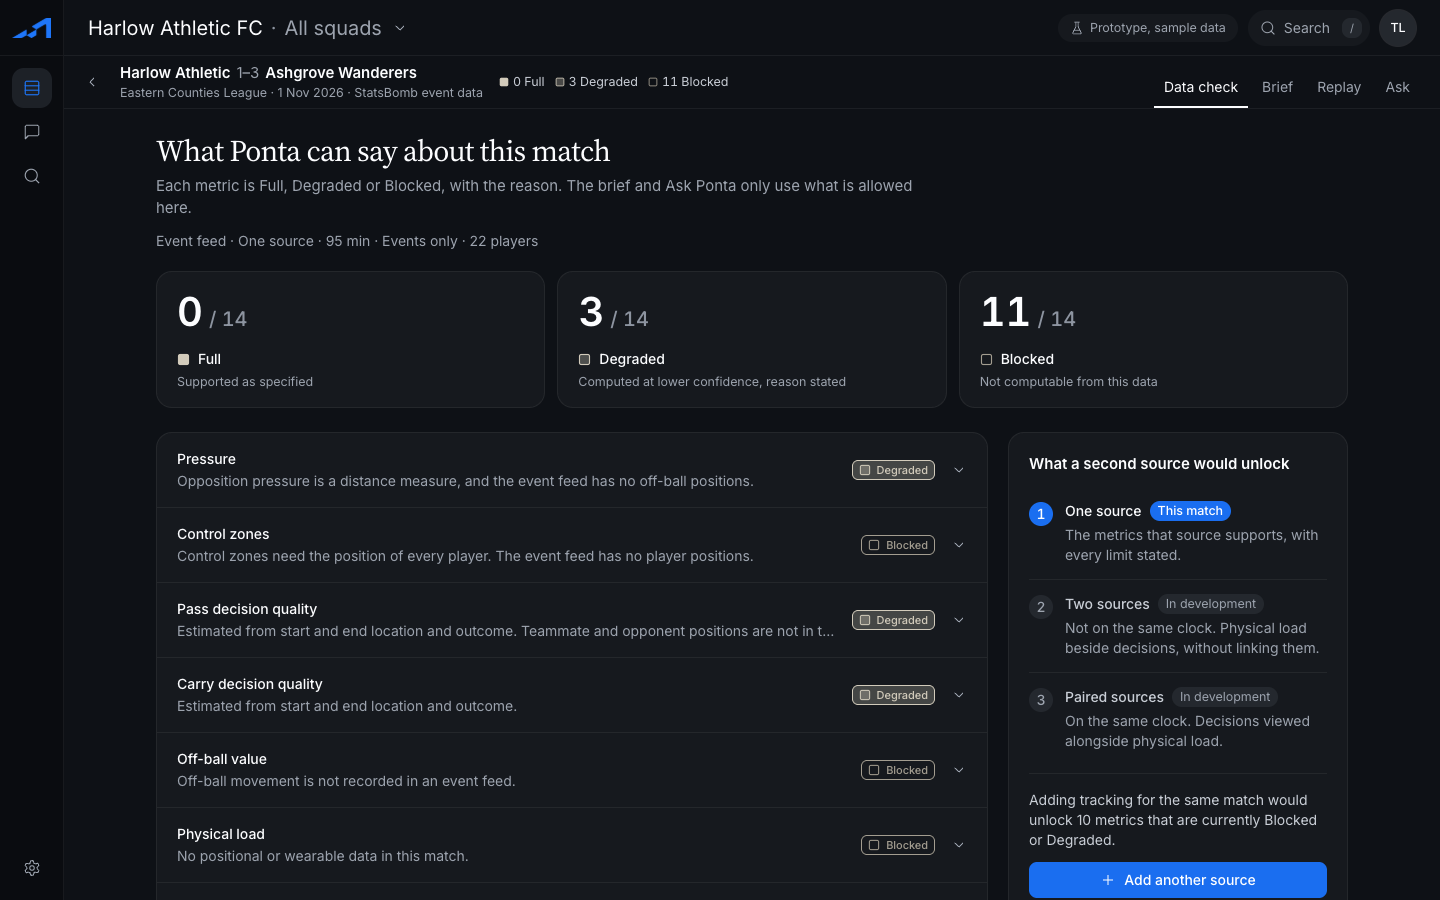
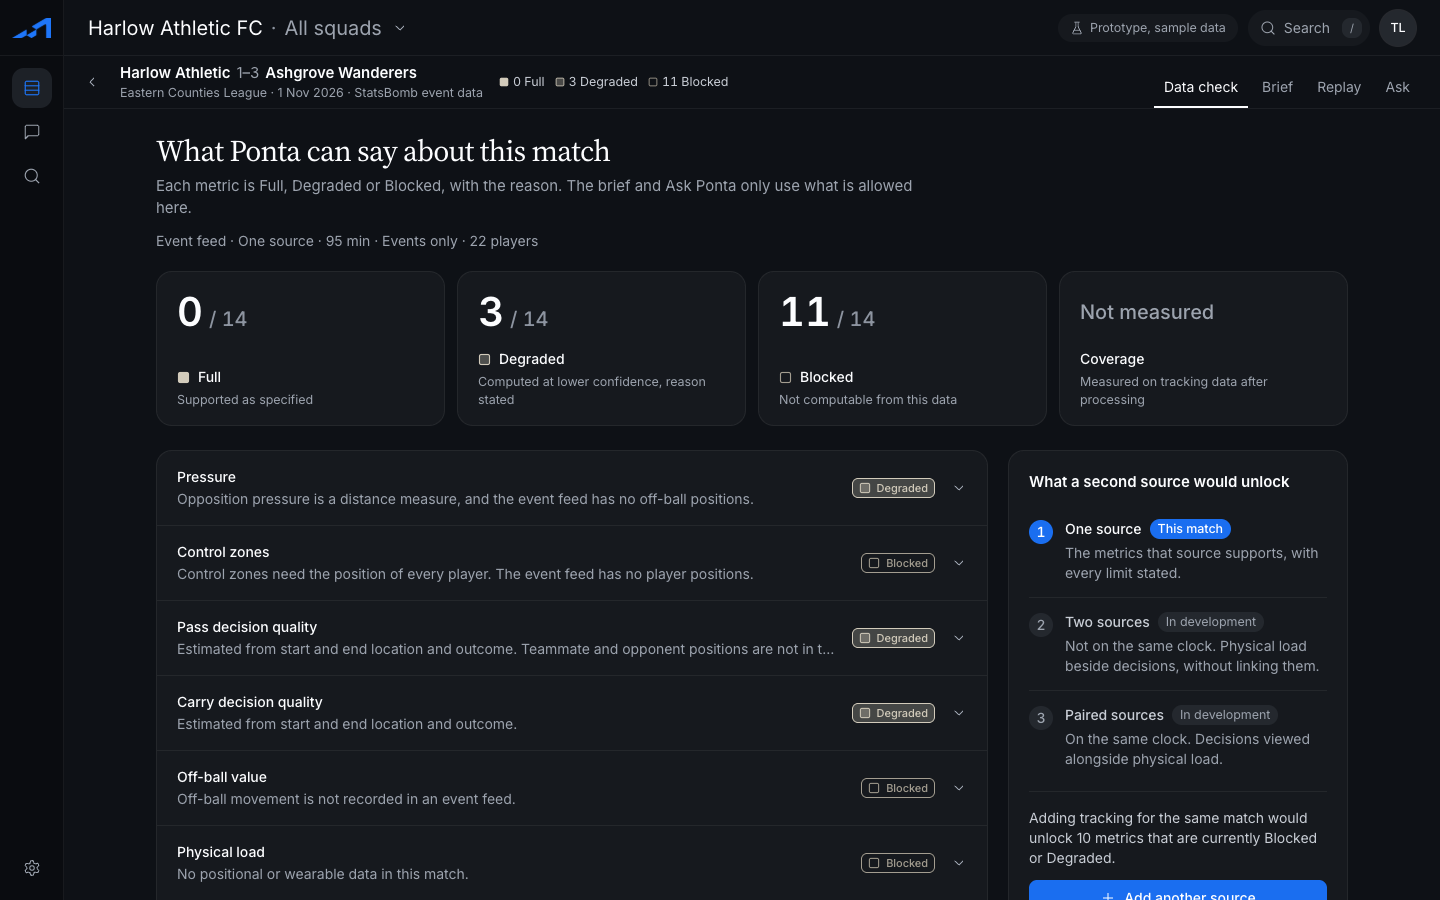
Data check: coverage (brief v2, 5.2)
Fourth tile with the share of passes and carries scored, a plain line
listing why the rest were not, and the same figure in the brief header
and print view. Mock figures per processed tracking match; m_0372 is the
low-coverage example. Pre-processing check leaves coverage out.

diff --git a/src/components/parity/ParityGate.tsx b/src/components/parity/ParityGate.tsx
@@ -4,9 +4,9 @@ import * as Collapsible from '@radix-ui/react-collapsible'
 import { ArrowRight, ChevronDown, Download, FlaskConical, Layers, Plus } from 'lucide-react'
 import { cn } from '@/lib/cn'
 import { t } from '@/i18n'
-import { FAMILIES, type Match, type MetricId, type ParityState } from '@/lib/types'
+import { FAMILIES, type Coverage, type Match, type MetricId, type ParityState } from '@/lib/types'
 import { familyState, parityFor, getMatchesSync } from '@/api'
-import { fmtDateTime } from '@/lib/format'
+import { fmtDateTime, fmtShare } from '@/lib/format'
 import { Button, buttonStyles } from '@/components/ui/button'
 import { InlineAlert } from '@/components/ui/feedback'
 import { ParityBadge, ParityIcon, Tag, TierBadge, TierGlyph } from '@/components/ui/badges'
@@ -31,6 +31,33 @@ function SummaryStat({ state, n, total }: { state: ParityState; n: number; total
         <p className="mt-1 text-xs text-fg-3">{t(`gate.stat_hint_${state}`)}</p>
       </div>
     </div>
+  )
+}
+
+/** The coverage tile: the scored share leads, in the same shape as the state tiles. */
+function CoverageStat({ coverage }: { coverage: Coverage | null }) {
+  return (
+    <div className="flex flex-col justify-between rounded-xl border border-hair bg-s1 px-5 pb-4 pt-5">
+      {coverage ? (
+        <p className="font-mono text-[40px] font-semibold leading-none tracking-tight tabular-nums text-fg-1">{fmtShare(coverage.scored, coverage.decisions)}</p>
+      ) : (
+        <p className="text-lg font-medium leading-[40px] text-fg-3">{t('cov.not_measured')}</p>
+      )}
+      <div className="mt-4">
+        <p className="text-sm font-medium text-fg-1">{t('cov.title')}</p>
+        <p className="mt-1 text-xs text-fg-3">{coverage ? t('cov.hint', { scored: coverage.scored.toLocaleString('en-GB'), total: coverage.decisions.toLocaleString('en-GB') }) : t('cov.not_measured_hint')}</p>
+      </div>
+    </div>
+  )
+}
+
+/** Why the remaining decisions were not scored. Stated as a limit, in plain text, never as an error. */
+export function CoverageCauses({ coverage, className }: { coverage: Coverage; className?: string }) {
+  const causes = (Object.keys(coverage.causes) as (keyof Coverage['causes'])[]).filter((k) => coverage.causes[k] > 0)
+  return (
+    <p className={cn('text-sm text-fg-3', className)}>
+      <span className="text-fg-2">{t('cov.causes')}</span> {causes.map((k) => t(`cov.cause.${k}`, { n: coverage.causes[k] })).join(' · ')}. {t('cov.limit')}
+    </p>
   )
 }
 
@@ -191,11 +218,16 @@ export function ParityGate({ match, continueLabel, onContinue, continueTo, foote
       {(() => {
         const total = report.summary.full + report.summary.degraded + report.summary.blocked
         return (
-          <div className="mt-5 grid grid-cols-3 gap-3">
-            <SummaryStat state="full" n={report.summary.full} total={total} />
-            <SummaryStat state="degraded" n={report.summary.degraded} total={total} />
-            <SummaryStat state="blocked" n={report.summary.blocked} total={total} />
-          </div>
+          <>
+            {/* Coverage is measured during analysis, so the pre-processing check (Add data) leaves it out. */}
+            <div className={cn('mt-5 grid gap-3', embedded ? 'grid-cols-3' : 'grid-cols-4')}>
+              <SummaryStat state="full" n={report.summary.full} total={total} />
+              <SummaryStat state="degraded" n={report.summary.degraded} total={total} />
+              <SummaryStat state="blocked" n={report.summary.blocked} total={total} />
+              {!embedded ? <CoverageStat coverage={report.coverage} /> : null}
+            </div>
+            {!embedded && report.coverage ? <CoverageCauses coverage={report.coverage} className="mt-3" /> : null}
+          </>
         )
       })()}
 

diff --git a/src/components/brief/BriefContent.tsx b/src/components/brief/BriefContent.tsx
@@ -5,7 +5,8 @@ import { t } from '@/i18n'
 import { FAMILIES, type Brief, type Match, type MatchEvent, type MetricId } from '@/lib/types'
 import { parityFor } from '@/api'
 import type { LoadedPack } from '@/api/packs'
-import { fmtDate, fmtDateTime } from '@/lib/format'
+import { fmtDate, fmtDateTime, fmtShare } from '@/lib/format'
+import { CoverageCauses } from '@/components/parity/ParityGate'
 import { confLevel } from '@/lib/bands'
 import { AiMarker, ConfidenceGlyph, ParityIcon, TierBadge } from '@/components/ui/badges'
 import { CitationChip } from '@/components/ui/moment'
@@ -68,6 +69,12 @@ export function BriefHeader({ match, brief, lp, variant, regenerating }: { match
                 </p>
               </div>
             ))}
+            {match.coverage ? (
+              <div className="border-l border-hair pl-6">
+                <p className="font-mono text-xl font-medium leading-6 tabular-nums text-fg-1">{fmtShare(match.coverage.scored, match.coverage.decisions)}</p>
+                <p className="mt-1 text-xs text-fg-3">{t('cov.brief_label')}</p>
+              </div>
+            ) : null}
           </div>
         </div>
         <div className="px-5 py-4">
@@ -78,6 +85,7 @@ export function BriefHeader({ match, brief, lp, variant, regenerating }: { match
             {!degraded.length && !blocked.length ? <p className="text-sm text-fg-2">{t('brief.limits_none')}</p> : null}
           </div>
         </div>
+        {match.coverage ? <CoverageCauses coverage={match.coverage} className="col-span-2 border-t border-hair px-5 py-3 text-xs leading-[18px]" /> : null}
       </section>
 
       {eventOnly ? (

diff --git a/src/lib/types.ts b/src/lib/types.ts
@@ -64,6 +64,8 @@ export interface Match {
   confDelta?: number
   ingest: { hz: number | null; occludedPct: number | null; droppedPct: number | null; durationMin: number; players: number; format: string }
   fixtureNote?: string
+  /** Measured after analysis; absent before processing and for sources without tracking. */
+  coverage?: Coverage
 }
 
 export const PROCESSING_STAGES = ['parsing', 'normalising', 'quality_check', 'analysing', 'writing_brief'] as const
@@ -80,10 +82,20 @@ export interface ParityProfile {
   label: string
   metrics: Record<MetricId, ParityMetric>
 }
+/**
+ * Share of passes and carries the engine scored, and why the rest were not. A metric can be Full
+ * while some decisions go unscored; the Data check states both. Mock figures; the engine measures them.
+ */
+export interface Coverage {
+  decisions: number
+  scored: number
+  causes: { ball_not_detected: number; goalkeeper: number; set_piece: number; outside_frames: number }
+}
 export interface ParityReport {
   matchId: string
   metrics: Record<MetricId, ParityMetric>
   summary: { full: number; degraded: number; blocked: number }
+  coverage: Coverage | null
   engineVersion: string
   generatedAt: string
 }

diff --git a/src/i18n/en.ts b/src/i18n/en.ts
@@ -329,6 +329,17 @@ const en: Record<string, string> = {
   'gate.intro': 'Each metric is Full, Degraded or Blocked, with the reason. The brief and Ask Ponta only use what is allowed here.',
   'gate.dev_title': 'Multi-source matches are in development',
   'gate.dev_body': 'Two-source and paired-source matches need more than one source for the same match. The report below shows what they are designed to unlock. Nothing here is live.',
+  'cov.title': 'Coverage',
+  'cov.hint': '{scored} of {total} passes and carries scored',
+  'cov.not_measured': 'Not measured',
+  'cov.not_measured_hint': 'Measured on tracking data after processing',
+  'cov.causes': 'Not scored:',
+  'cov.cause.ball_not_detected': '{n} ball not detected',
+  'cov.cause.goalkeeper': '{n} goalkeeper',
+  'cov.cause.set_piece': '{n} set piece',
+  'cov.cause.outside_frames': '{n} outside tracked frames',
+  'cov.limit': 'Findings use the scored decisions only.',
+  'cov.brief_label': 'Scored',
   'gate.stat_hint_full': 'Supported as specified',
   'gate.stat_hint_degraded': 'Computed at lower confidence, reason stated',
   'gate.stat_hint_blocked': 'Not computable from this data',

diff --git a/src/api/index.ts b/src/api/index.ts
@@ -60,7 +60,7 @@ export function parityFor(m: Match): ParityReport {
   if (m.ingest.hz && m.ingest.droppedPct !== null) {
     metrics.distance_speed.measure = `${m.ingest.hz} Hz, ${m.ingest.droppedPct}% dropped`
   }
-  return { matchId: m.id, metrics, summary, engineVersion: 'engine 0.8.2 (sample)', generatedAt: new Date(new Date(m.date).getTime() + 95 * 60000 + 14 * 60000).toISOString() }
+  return { matchId: m.id, metrics, summary, coverage: m.coverage ?? null, engineVersion: 'engine 0.8.2 (sample)', generatedAt: new Date(new Date(m.date).getTime() + 95 * 60000 + 14 * 60000).toISOString() }
 }
 
 export function paritySummarySync(m: Match) {

diff --git a/src/lib/format.ts b/src/lib/format.ts
@@ -34,3 +34,6 @@ export function fmtRelative(iso: string | null): string {
 }
 export const fmt2 = (n: number) => n.toFixed(2)
 export const fmt1 = (n: number) => n.toFixed(1)
+
+/** Share as a percentage with one decimal, for example 94.9%. */
+export const fmtShare = (part: number, whole: number) => `${((part / whole) * 100).toFixed(1)}%`

diff --git a/docs/design-notes.md b/docs/design-notes.md
@@ -171,3 +171,7 @@ The founder chose a new reference to adopt in full, keeping only Ponta blue as t
 6. **Unchanged:** analytics colours (teams, decision-quality bands, Data check marks, confidence), the naming rules and every honesty rule.
 
 Contrast: 104 pairs, none failing.
+
+## 9. Coverage (brief v2, 5.2)
+
+A metric can be Full while some decisions go unscored. The Data check carries a fourth tile, the share of passes and carries scored, and one plain line beneath the tiles listing why the rest were not (ball not detected, goalkeeper, set piece, outside tracked frames), ending "Findings use the scored decisions only." The brief header and the print view show the same figure and line. A low share is stated in the same neutral text as a high one: no warning colour, no alert, no threshold. The pre-processing check in Add data leaves coverage out, because it is measured during analysis. Sources without tracking show "Not measured". Mock figures sit on `Match.coverage`; the SkillCorner mock stays close to the 95.4% the engine measured on the real sample, and `m_0372` (21.4% of frames dropped, about 20 minutes) is the low-coverage example.
